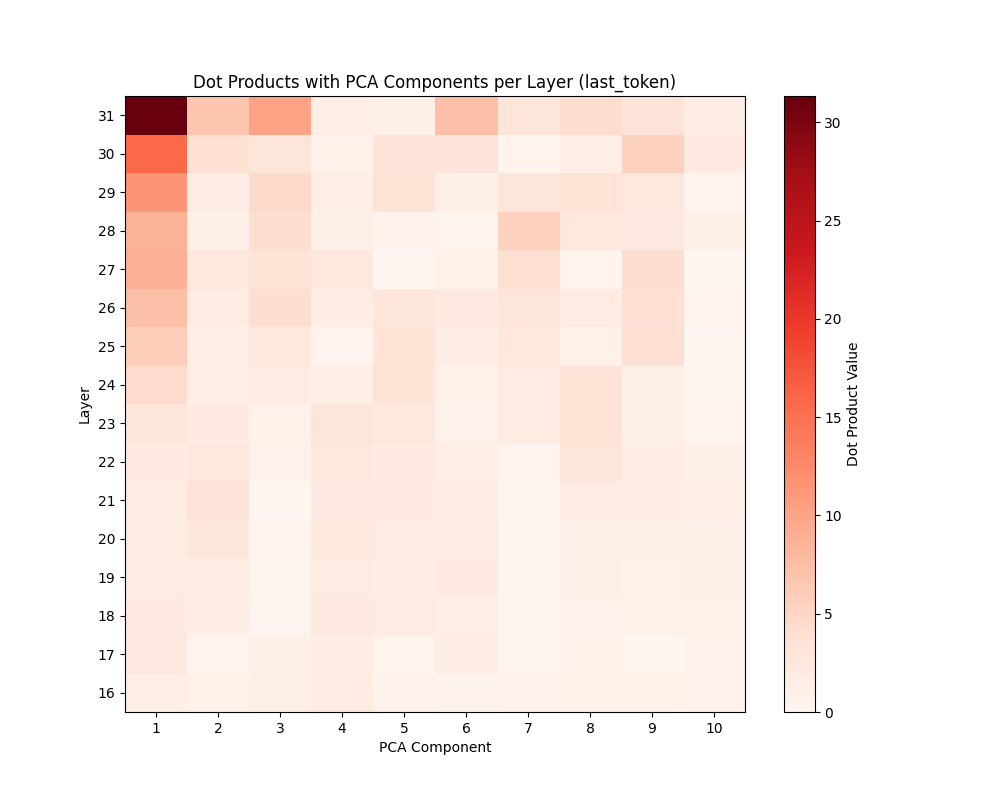
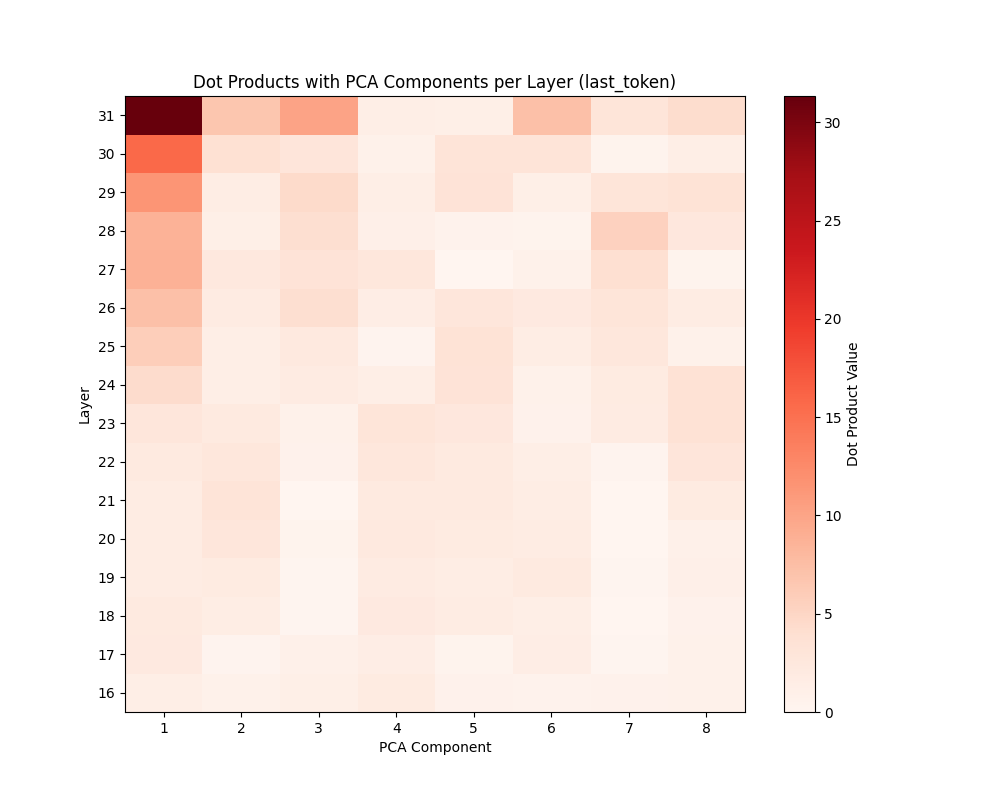
created validate vector

diff --git a/linear_probe/prompt_senstivity/validate_vector.py b/linear_probe/prompt_senstivity/validate_vector.py
@@ -1,0 +1,251 @@
+"""
+Validate an input projection direction (e.g., PCA component or mass-mean vector)
+against validation classes (pos_correct, neg_correct, not_detected, etc.).
+
+Usage:
+    python validate_vector.py --input_vector path/to/vector.pt --run-dir path/to/activations
+"""
+
+import argparse
+import torch
+import numpy as np
+import matplotlib.pyplot as plt
+from pathlib import Path
+import sys
+
+# Add project root to sys.path
+PROJECT_ROOT = Path(__file__).resolve().parent.parent.parent
+sys.path.append(str(PROJECT_ROOT))
+
+
+def load_class_vectors(root_dir: Path, layer: int, token_type: str = "last_token", allowed_prompts: list[int] = None):
+    """Load activation vectors for a given layer from all .pt files in root_dir."""
+    vectors = []
+    concepts = []
+    prompt_ids = []
+
+    if not root_dir.exists():
+        return vectors, concepts, prompt_ids
+
+    files = sorted(root_dir.glob("*.pt"))
+
+    for f in files:
+        try:
+            data = torch.load(f, map_location="cpu", weights_only=False)
+            concept = data.get("concept", f.name.split("_")[0])
+            pid = data.get("prompt_id", -1)
+
+            if allowed_prompts is not None and pid not in allowed_prompts:
+                continue
+
+            acts = data["activations"]
+
+            if layer in acts:
+                vec = acts[layer].get(token_type)
+                if vec is None:
+                    continue
+            elif token_type in acts:
+                vec = acts[token_type]
+            else:
+                continue
+
+            vectors.append(vec.float())
+            concepts.append(concept)
+            prompt_ids.append(pid)
+        except Exception as e:
+            continue
+
+    return vectors, concepts, prompt_ids
+
+
+def main():
+    script_dir = Path(__file__).resolve().parent
+
+    parser = argparse.ArgumentParser(description="Validate an input projection vector")
+    parser.add_argument("--input_vector", type=str, required=True,
+                        help="Path to the input vector .pt file. If PCA, expects a tensor or dict with 'components'. "
+                             "We will extract the required vector.")
+    parser.add_argument("--pca_index", type=int, default=0,
+                        help="If input vector is a PCA components matrix, which index to use (default: 0).")
+    parser.add_argument("--layer", type=int, default=24,
+                        help="Readout layer (default: 24)")
+    parser.add_argument("--run-dir", type=str, default=None,
+                        help="Path to the prompt_activations run directory (default: latest in saved_activations/)")
+    parser.add_argument("--token_type", type=str, default="last_token",
+                        choices=["last_token", "prompt_last_token"],
+                        help="Which token position to read (default: last_token)")
+    parser.add_argument("--hide_intermediate", action="store_true",
+                        help="Only plot the two main classes")
+    parser.add_argument("--prompts", type=int, nargs="+", default=None,
+                        help="List of prompt IDs to include. If not set, all are included.")
+    args = parser.parse_args()
+
+    layer = args.layer
+    token_type = args.token_type
+    allowed_prompts = args.prompts
+
+    # ── Resolve input vector ─────────────────────────────────────────────
+    input_path = Path(args.input_vector)
+    if not input_path.exists():
+        print(f"ERROR: Input vector file not found at {input_path}")
+        return
+
+    vector_data = torch.load(input_path, map_location="cpu", weights_only=False)
+    
+    # Extract the actual direction vector to validate against
+    if isinstance(vector_data, dict) and "components" in vector_data:
+        # It's a PCA dict
+        projection_vector = vector_data["components"][args.pca_index].float()
+        print(f"Loaded PCA component index {args.pca_index} from: {input_path}")
+    elif isinstance(vector_data, torch.Tensor):
+        if vector_data.dim() == 2:
+            # Maybe it's a matrix of components, take the indexed one
+            projection_vector = vector_data[args.pca_index].float()
+        else:
+            projection_vector = vector_data.float()
+        print(f"Loaded tensor vector from: {input_path}")
+    else:
+        print("ERROR: Unknown format for input vector.")
+        return
+
+    # Normalize the projection vector
+    projection_vector = projection_vector / torch.norm(projection_vector)
+
+    # ── Resolve run directory ────────────────────────────────────────────
+    if args.run_dir:
+        run_dir = Path(args.run_dir)
+    else:
+        sa_dir = script_dir / "saved_activations"
+        candidates = sorted(sa_dir.glob("prompt_activations_*"))
+        if not candidates:
+            print("ERROR: No prompt_activations_* directories found.")
+            return
+        run_dir = candidates[-1]
+
+    pos_root = run_dir / "positive"
+    neg_root = run_dir / "negative"
+
+    print(f"\nRun directory: {run_dir}")
+    print(f"Layer: {layer}  |  Token type: {token_type}")
+
+    # ── Load class vectors ───────────────────────────────────────────────
+    pos_dir = pos_root / "detected_correct"
+    neg_dir = neg_root / "detected_correct"
+
+    pos_vecs, _, _ = load_class_vectors(pos_dir, layer, token_type, allowed_prompts)
+    neg_vecs, _, _ = load_class_vectors(neg_dir, layer, token_type, allowed_prompts)
+    opp_vecs, _, _ = load_class_vectors(pos_root / "detected_opposite", layer, token_type, allowed_prompts)
+    ortho_vecs, _, _ = load_class_vectors(pos_root / "detected_orthogonal", layer, token_type, allowed_prompts)
+    para_vecs, _, _ = load_class_vectors(pos_root / "detected_parallel", layer, token_type, allowed_prompts)
+    notdet_vecs, _, _ = load_class_vectors(pos_root / "not_detected", layer, token_type, allowed_prompts)
+    incoh_vecs, _, _ = load_class_vectors(pos_root / "incoherent", layer, token_type, allowed_prompts)
+
+    if not pos_vecs or not neg_vecs:
+        print(f"ERROR: Missing primary class data! Pos: {len(pos_vecs)}, Neg: {len(neg_vecs)}")
+        return
+
+    pos_tensor = torch.stack(pos_vecs)
+    neg_tensor = torch.stack(neg_vecs)
+    opp_tensor = torch.stack(opp_vecs) if opp_vecs else torch.empty((0, pos_tensor.shape[1]))
+    ortho_tensor = torch.stack(ortho_vecs) if ortho_vecs else torch.empty((0, pos_tensor.shape[1]))
+    para_tensor = torch.stack(para_vecs) if para_vecs else torch.empty((0, pos_tensor.shape[1]))
+    notdet_tensor = torch.stack(notdet_vecs) if notdet_vecs else torch.empty((0, pos_tensor.shape[1]))
+    incoh_tensor = torch.stack(incoh_vecs) if incoh_vecs else torch.empty((0, pos_tensor.shape[1]))
+
+    # ---------------------------------------------------------
+    # Projection & Plotting
+    # ---------------------------------------------------------
+    print("\nComputing projections onto the input vector...")
+    
+    X_all = torch.cat([pos_tensor, neg_tensor], dim=0)
+    y_all = torch.cat([torch.ones(len(pos_tensor)), torch.zeros(len(neg_tensor))])
+
+    projection_scores = (X_all @ projection_vector).numpy()
+    y_np = y_all.numpy()
+
+    pos_scores = projection_scores[y_np == 1]
+    neg_scores = projection_scores[y_np == 0]
+
+    opp_scores = (opp_tensor @ projection_vector).numpy() if len(opp_tensor) > 0 else np.array([])
+    ortho_scores = (ortho_tensor @ projection_vector).numpy() if len(ortho_tensor) > 0 else np.array([])
+    para_scores = (para_tensor @ projection_vector).numpy() if len(para_tensor) > 0 else np.array([])
+    notdet_scores = (notdet_tensor @ projection_vector).numpy() if len(notdet_tensor) > 0 else np.array([])
+    incoh_scores = (incoh_tensor @ projection_vector).numpy() if len(incoh_tensor) > 0 else np.array([])
+
+    # Separation metric
+    separation = pos_scores.mean() - neg_scores.mean()
+    print(f"\n  Mean score (positive / injected correct):     {pos_scores.mean():.4f} ± {pos_scores.std():.4f}")
+    if len(para_scores) > 0:   print(f"  Mean score (detected parallel):               {para_scores.mean():.4f} ± {para_scores.std():.4f}")
+    if len(ortho_scores) > 0:  print(f"  Mean score (detected orthogonal):             {ortho_scores.mean():.4f} ± {ortho_scores.std():.4f}")
+    if len(opp_scores) > 0:    print(f"  Mean score (detected opposite):               {opp_scores.mean():.4f} ± {opp_scores.std():.4f}")
+    if len(notdet_scores) > 0: print(f"  Mean score (not detected):                    {notdet_scores.mean():.4f} ± {notdet_scores.std():.4f}")
+    if len(incoh_scores) > 0:  print(f"  Mean score (incoherent):                      {incoh_scores.mean():.4f} ± {incoh_scores.std():.4f}")
+    print(f"  Mean score (negative / calibration correct):  {neg_scores.mean():.4f} ± {neg_scores.std():.4f}")
+    print(f"  Separation (injected vs calibration):         {separation:.4f}")
+
+    plt.figure(figsize=(12, 4))
+    s = 20
+
+    jitter = np.random.uniform(-0.1, 0.1, size=len(y_np))
+
+    plt.scatter(neg_scores, jitter[y_np == 0],
+                color='blue', label=f'Calibration Correct (n={len(neg_scores)})',
+                alpha=0.7, edgecolors='w', s=s)
+    plt.scatter(pos_scores, jitter[y_np == 1],
+                color='red', label=f'Injected Correct (n={len(pos_scores)})',
+                alpha=0.7, edgecolors='w', s=s, marker='^')
+
+    if not args.hide_intermediate:
+        if len(opp_scores) > 0:
+            jitter_opp = np.random.uniform(-0.1, 0.1, size=len(opp_scores))
+            plt.scatter(opp_scores, jitter_opp, color='purple',
+                        label=f'Detected Opposite (n={len(opp_scores)})',
+                        alpha=0.7, edgecolors='w', s=s, marker='X')
+
+        if len(ortho_scores) > 0:
+            jitter_ortho = np.random.uniform(-0.1, 0.1, size=len(ortho_scores))
+            plt.scatter(ortho_scores, jitter_ortho, color='orange',
+                        label=f'Detected Orthogonal (n={len(ortho_scores)})',
+                        alpha=0.7, edgecolors='w', s=s, marker='o')
+
+        if len(para_scores) > 0:
+            jitter_para = np.random.uniform(-0.1, 0.1, size=len(para_scores))
+            plt.scatter(para_scores, jitter_para, color='cyan',
+                        label=f'Detected Parallel (n={len(para_scores)})',
+                        alpha=0.7, edgecolors='w', s=s, marker='D')
+
+        if len(notdet_scores) > 0:
+            jitter_nd = np.random.uniform(-0.1, 0.1, size=len(notdet_scores))
+            plt.scatter(notdet_scores, jitter_nd, color='gray',
+                        label=f'Not Detected (n={len(notdet_scores)})',
+                        alpha=0.7, edgecolors='w', s=s, marker='s')
+
+        if len(incoh_scores) > 0:
+            jitter_ic = np.random.uniform(-0.1, 0.1, size=len(incoh_scores))
+            plt.scatter(incoh_scores, jitter_ic, color='black',
+                        label=f'Incoherent (n={len(incoh_scores)})',
+                        alpha=0.5, edgecolors='w', s=s, marker='v')
+
+    midpoint = (pos_scores.mean() + neg_scores.mean()) / 2
+    plt.axvline(x=midpoint, color='black', linestyle='--', linewidth=2, label='Midpoint')
+
+    vec_name = input_path.stem
+    plt.title(f"1D Projection onto Input Vector: {vec_name} (Layer {layer}, {token_type})")
+    plt.xlabel("Score (dot product with input direction)")
+    plt.yticks([])
+    plt.legend(loc='upper left', fontsize=7)
+    plt.grid(True, axis='x', alpha=0.3)
+
+    all_scores = np.concatenate([s for s in [pos_scores, neg_scores, opp_scores, ortho_scores, para_scores, notdet_scores, incoh_scores] if len(s) > 0])
+    max_abs = max(abs(all_scores.min()), abs(all_scores.max())) * 1.2
+    plt.xlim(-max_abs, max_abs)
+
+    plot_dir = script_dir.parent.parent / "plots" / "linear_probe" / "prompt_senstivity"
+    plot_dir.mkdir(parents=True, exist_ok=True)
+    plot_path = plot_dir / f"vector_validation_{vec_name}_layer{layer}_{token_type}.png"
+    plt.savefig(plot_path, bbox_inches='tight')
+    print(f"\nPlot saved to {plot_path}")
+
+
+if __name__ == "__main__":
+    main()

diff --git a/linear_probe/prompt_senstivity/compute_PCA.py b/linear_probe/prompt_senstivity/compute_PCA.py
@@ -45,6 +45,8 @@ def main():
                         help="Maximum number of PCA components to plot in the heatmap (default: 20)")
     parser.add_argument("--plot_pc1", action="store_true", 
                         help="Plot Explained Variance of PC1 as a line graph instead of the 2D heatmap")
+    parser.add_argument("--plot_mean_diff", action="store_true", 
+                        help="Plot mean(calibration_correct) - mean(detected_correct) projected onto PCA")
     parser.add_argument("--input_vector", type=str, default=None,
                         help="Path to an activation .pt file to compute dot product against PCA components")
     args = parser.parse_args()
@@ -88,8 +90,8 @@ def main():
             print(f"ERROR: Input vector file not found at {input_path}")
             return
 
-    # Intersect keys
-    common_keys = set(pos_map.keys()).intersection(set(neg_map.keys()))
+    # Intersect keys and sort them so order is deterministic
+    common_keys = sorted(list(set(pos_map.keys()).intersection(set(neg_map.keys()))))
     print(f"Found {len(common_keys)} matched (concept, prompt_id) pairs.")
 
     if not common_keys:
@@ -110,6 +112,7 @@ def main():
     pc1_values = []
     input_dots_matrix = []
     notdet_diff_matrix = []
+    mean_diff_matrix = []
 
     print(f"\nProcessing layers...")
     if args.plot_pc1:
@@ -146,18 +149,28 @@ def main():
         
         # Collect not_detected and pos_all for this layer
         notdet_vecs = []
-        for key, acts in notdet_map.items():
+        for key in sorted(notdet_map.keys()):
+            acts = notdet_map[key]
             if layer in acts:
                 vec = acts[layer].get(token_type)
                 if vec is not None:
                     notdet_vecs.append(vec.float())
         
         pos_all_vecs = []
-        for key, acts in pos_map.items():
+        for key in sorted(pos_map.keys()):
+            acts = pos_map[key]
             if layer in acts:
                 vec = acts[layer].get(token_type)
                 if vec is not None:
                     pos_all_vecs.append(vec.float())
+
+        neg_all_vecs = []
+        for key in sorted(neg_map.keys()):
+            acts = neg_map[key]
+            if layer in acts:
+                vec = acts[layer].get(token_type)
+                if vec is not None:
+                    neg_all_vecs.append(vec.float())
 
         try:
             # PCA matching previous script
@@ -220,6 +233,22 @@ def main():
                 notdet_diff_matrix.append(diff_proj)
             else:
                 notdet_diff_matrix.append(np.zeros(args.max_components))
+
+            # Store difference in means for calibration_correct vs pos_correct
+            if args.plot_mean_diff:
+                if neg_all_vecs and pos_all_vecs:
+                    mean_neg_all = torch.stack(neg_all_vecs).mean(dim=0)
+                    mean_pos_all = torch.stack(pos_all_vecs).mean(dim=0)
+                    mean_diff_calib = mean_neg_all - mean_pos_all
+                    diff_proj_calib = torch.matmul(Vh, mean_diff_calib).numpy()
+                    
+                    if len(diff_proj_calib) > args.max_components:
+                        diff_proj_calib = diff_proj_calib[:args.max_components]
+                    elif len(diff_proj_calib) < args.max_components:
+                        diff_proj_calib = np.pad(diff_proj_calib, (0, args.max_components - len(diff_proj_calib)), 'constant')
+                    mean_diff_matrix.append(diff_proj_calib)
+                else:
+                    mean_diff_matrix.append(np.zeros(args.max_components))
 
             if args.plot_pc1:
                 pc1_var = explained_variance_ratio[0].item()
@@ -335,6 +364,32 @@ def main():
             diff_plot_path = output_dir / diff_filename
             plt.savefig(diff_plot_path)
             print(f"Not Detected diff heatmap saved to {diff_plot_path}")
+
+        # Plot calibration_correct vs pos_correct diff heatmap
+        if args.plot_mean_diff and mean_diff_matrix:
+            mean_diff_np = np.array(mean_diff_matrix)
+            plt.figure(figsize=(10, 8))
+            
+            vmax = np.max(np.abs(mean_diff_np))
+            if vmax == 0:
+                vmax = 1.0  # avoid division by zero in cmap if empty
+                
+            plt.imshow(mean_diff_np, aspect='auto', cmap='RdBu_r', origin='lower', 
+                       vmin=-vmax, vmax=vmax)
+            
+            plt.yticks(ticks=np.arange(len(layers_plotted)), labels=layers_plotted)
+            plt.xticks(ticks=xticks, labels=xlabels)
+            
+            plt.colorbar(label='Dot Product Value (Mean Calibration - Mean Pos Correct)')
+            
+            plt.title(f"Projection of (Calibration - Pos Correct) onto PCA ({token_type})")
+            plt.ylabel("Layer")
+            plt.xlabel("PCA Component")
+            
+            diff_filename2 = f"pca_mean_diff_heatmap_{dir_suffix}.png"
+            diff_plot_path2 = output_dir / diff_filename2
+            plt.savefig(diff_plot_path2)
+            print(f"Mean diff heatmap saved to {diff_plot_path2}")
 
 if __name__ == "__main__":
     main()
